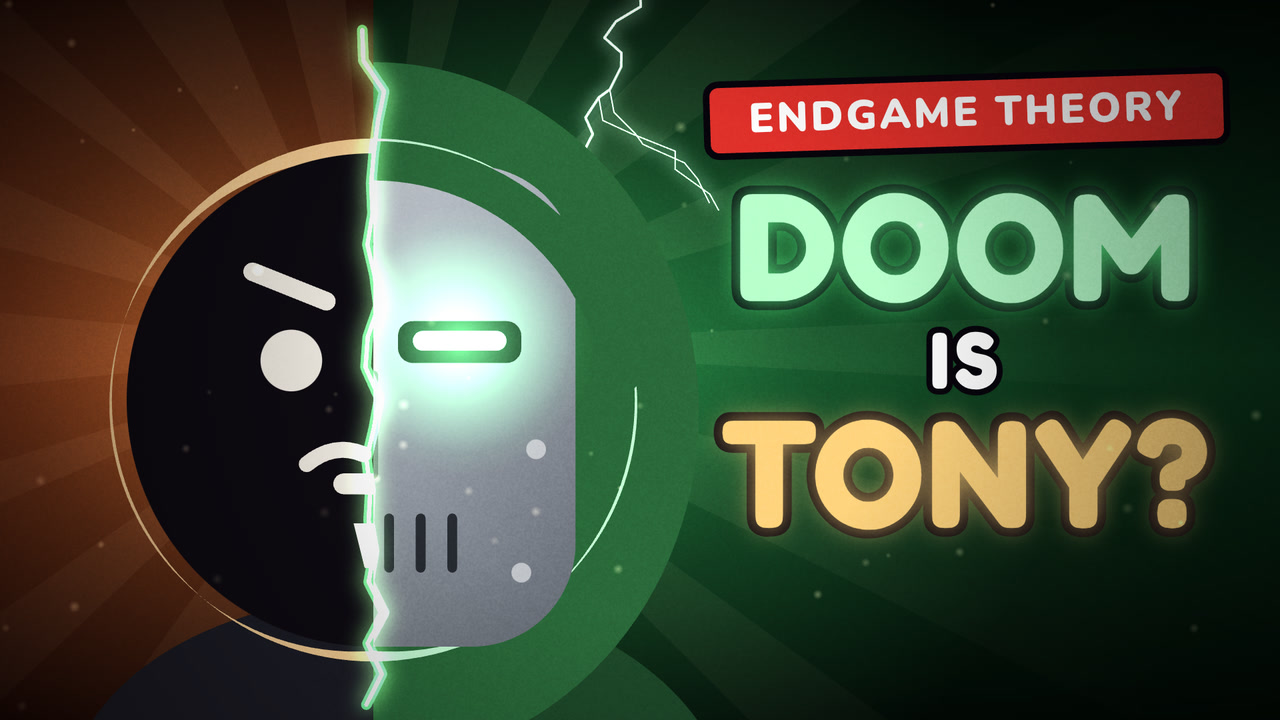
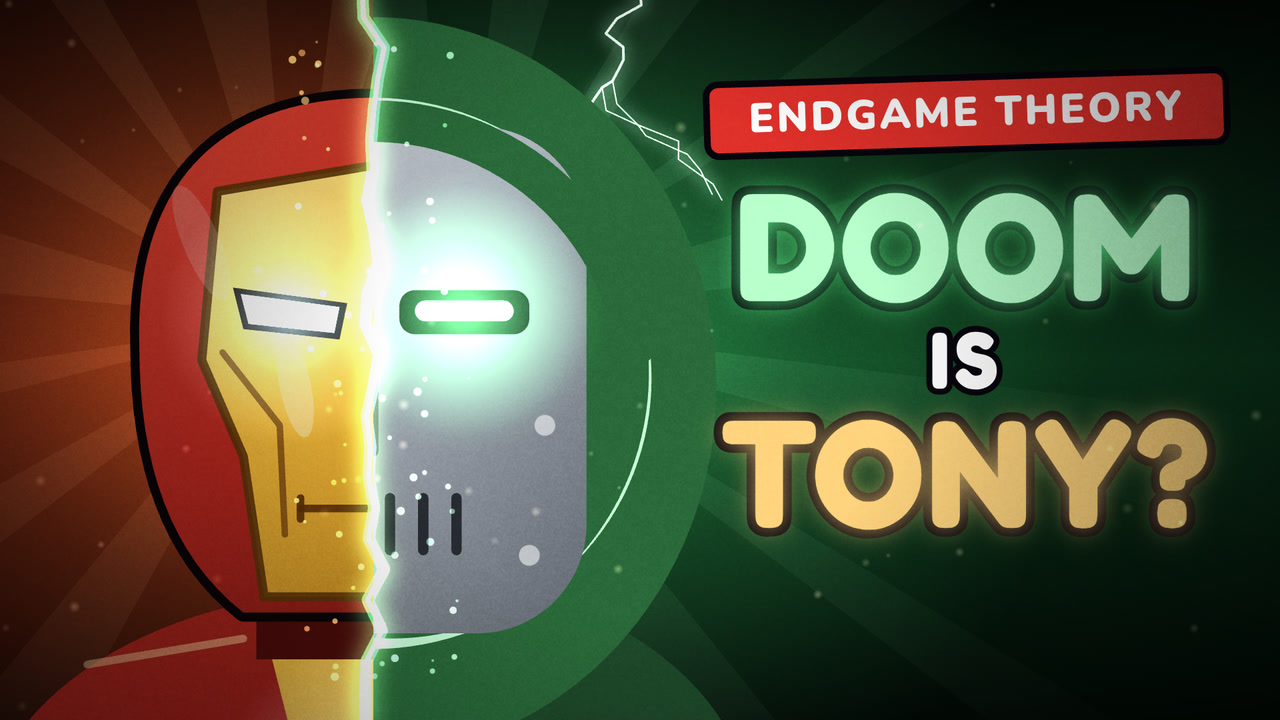
Thumbnail: split Iron Man helmet / Doctor Doom mask
Replaces Tony's face with a detailed Iron Man helmet sized to line up with
Doom's mask, adds sparks along the crack, and updates the AI prompt to match.

Claude-Session: https://claude.ai/code/session_01Lqz46ipsYNizcdPQzsfQbJ

diff --git a/aitrends-2d-studio/projects/thumbnail-doom-tony/scenes/thumb.js b/aitrends-2d-studio/projects/thumbnail-doom-tony/scenes/thumb.js
@@ -1,33 +1,69 @@
 // thumb.js — YouTube thumbnail for "Is Doctor Doom Secretly Tony Stark?".
-// Reuses the video's own faces so the thumbnail matches the video exactly.
-// Layout: one face split down the middle (Tony on the left, Doom's mask on the right) joined by a glowing crack,
-// "DOOM / IS / TONY?" on the right; the bottom-right corner stays clear for YouTube's duration badge.
-import { E, S, registerShot, alpha, glow, seg, text, rr, linGrad, backdrop, rng, FONTS } from '/engine/core.js';
+// Layout: one head split down the middle (Iron Man's helmet on the left, Doom's mask and hood on the right)
+// joined by a glowing crack, "DOOM / IS / TONY?" on the right; the bottom-right corner stays clear for
+// YouTube's duration badge. Doom is the video's own bigDoom; the helmet is drawn here to match its size.
+import { E, S, registerShot, alpha, glow, seg, circle, ring, text, rr, poly, linGrad, radGrad, backdrop, rng, FONTS } from '/engine/core.js';
 import * as FX from '/engine/fx2d.js';
 import { bigDoom } from '/projects/avengers-doomsday-watchlist/scenes/cast.js';
-import { bigMan, GREEN } from '/projects/doom-tony-theory/scenes/kit70.js';
+import { GREEN } from '/projects/doom-tony-theory/scenes/kit70.js';
+
+// front-view Iron Man helmet + shoulders, centred on (cx, cy), roughly the size of bigDoom's mask at the same r
+function ironHelmet(g, cx, cy, r) {
+  const ink = '#0a0406';
+  g.save(); g.translate(cx, cy);
+  // armour shoulders and a half-glowing arc reactor at the seam
+  g.fillStyle = linGrad(g, -r * 1.4, r * 1.2, r * 0.2, r * 2.4, ['#b8281f', '#6a120e']); g.beginPath(); g.ellipse(0, r * 1.78, r * 1.5, r * 0.95, 0, Math.PI, Math.PI * 2); g.fill();
+  g.fillStyle = linGrad(g, 0, r * 1.0, 0, r * 1.6, ['#f2c24a', '#a8741a']); g.beginPath(); g.moveTo(-r * 0.42, r * 0.98); g.lineTo(r * 0.42, r * 0.98); g.lineTo(r * 0.3, r * 1.45); g.lineTo(-r * 0.3, r * 1.45); g.closePath(); g.fill();
+  seg(g, [[-r * 1.1, r * 1.12], [-r * 0.5, r * 1.02]], r * 0.03, 'rgba(255,220,160,.5)');
+  glow(g, 0, r * 1.62, r * 0.6, '#9fe6ff', 0.6); circle(g, 0, r * 1.62, r * 0.17, '#e8faff'); ring(g, 0, r * 1.62, r * 0.17, r * 0.035, '#7a8a96');
+  // neck
+  g.fillStyle = '#4a0c0a'; g.fillRect(-r * 0.45, r * 0.8, r * 0.9, r * 0.3);
+  // red shell
+  const shell = () => { g.beginPath(); g.moveTo(0, -r * 1.06); g.bezierCurveTo(r * 0.62, -r * 1.06, r * 0.92, -r * 0.7, r * 0.9, -r * 0.1); g.bezierCurveTo(r * 0.9, r * 0.35, r * 0.78, r * 0.7, r * 0.5, r * 0.92); g.lineTo(-r * 0.5, r * 0.92); g.bezierCurveTo(-r * 0.78, r * 0.7, -r * 0.9, r * 0.35, -r * 0.9, -r * 0.1); g.bezierCurveTo(-r * 0.92, -r * 0.7, -r * 0.62, -r * 1.06, 0, -r * 1.06); g.closePath(); };
+  shell(); g.lineWidth = r * 0.07; g.strokeStyle = ink; g.stroke();
+  shell(); g.fillStyle = linGrad(g, -r, -r, r * 0.6, r, ['#ef4a36', '#b8281f', '#6a120e']); g.fill();
+  // gold faceplate
+  const plate = () => { g.beginPath(); g.moveTo(0, -r * 0.8); g.lineTo(r * 0.6, -r * 0.7); g.lineTo(r * 0.66, -r * 0.05); g.lineTo(r * 0.5, r * 0.32); g.lineTo(r * 0.42, r * 0.86); g.lineTo(-r * 0.42, r * 0.86); g.lineTo(-r * 0.5, r * 0.32); g.lineTo(-r * 0.66, -r * 0.05); g.lineTo(-r * 0.6, -r * 0.7); g.closePath(); };
+  plate(); g.fillStyle = linGrad(g, -r * 0.6, -r * 0.8, r * 0.3, r * 0.9, ['#ffe58a', '#f2b93a', '#b8801c']); g.fill(); g.lineWidth = r * 0.035; g.strokeStyle = 'rgba(90,50,8,.9)'; g.stroke();
+  // panel lines: forehead peak, cheeks, mouth
+  g.strokeStyle = 'rgba(110,60,10,.75)'; g.lineWidth = r * 0.025; g.lineCap = 'round';
+  for (const s of [-1, 1]) { g.beginPath(); g.moveTo(s * r * 0.58, -r * 0.08); g.lineTo(s * r * 0.36, r * 0.2); g.lineTo(s * r * 0.34, r * 0.62); g.stroke(); }
+  seg(g, [[-r * 0.28, r * 0.52], [r * 0.28, r * 0.52]], r * 0.03, 'rgba(90,45,6,.9)');
+  for (const s of [-1, 1]) seg(g, [[s * r * 0.28, r * 0.48], [s * r * 0.28, r * 0.56]], r * 0.03, 'rgba(90,45,6,.9)');
+  // glowing eyes
+  for (const s of [-1, 1]) {
+    poly(g, [[s * r * 0.1, -r * 0.27], [s * r * 0.54, -r * 0.33], [s * r * 0.5, -r * 0.17], [s * r * 0.13, -r * 0.13]], '#1a0a04');
+    poly(g, [[s * r * 0.13, -r * 0.255], [s * r * 0.51, -r * 0.305], [s * r * 0.48, -r * 0.19], [s * r * 0.15, -r * 0.155]], '#f4feff');
+    glow(g, s * r * 0.32, -r * 0.22, r * 0.5, '#9fe6ff', 0.55); g.save(); g.globalCompositeOperation = 'lighter'; glow(g, s * r * 0.32, -r * 0.22, r * 0.22, '#dff8ff', 0.35); g.restore();
+  }
+  // specular highlights
+  g.fillStyle = 'rgba(255,255,255,.18)'; g.beginPath(); g.ellipse(-r * 0.66, -r * 0.5, r * 0.07, r * 0.24, -0.4, 0, 7); g.fill();
+  g.fillStyle = 'rgba(255,250,220,.4)'; g.beginPath(); g.ellipse(-r * 0.3, r * 0.05, r * 0.06, r * 0.2, -0.2, 0, 7); g.fill();
+  g.restore();
+}
 
 registerShot('thumb', { draw(g, _t, info) {
-  const t = 0.4, ui = S().ui, ink = '#07040c', cx = 560, cy = 600, r = 370;
+  const t = 0.4, ui = S().ui, ink = '#07040c', cx = 560, cy = 560, r = 390;
 
-  // two worlds: Stark warm on the left, Latveria green on the right, split at the face
-  g.save(); g.beginPath(); g.rect(0, 0, cx, E.H); g.clip(); backdrop(g, ['#1a0604', '#6a2410', '#1a0604']); glow(g, cx - 200, cy - 80, 700, '#ffb050', 0.45); g.restore();
-  g.save(); g.beginPath(); g.rect(cx, 0, E.W - cx, E.H); g.clip(); backdrop(g, ['#020a05', '#0c3a1c', '#020a05']); glow(g, cx + 260, cy - 80, 800, GREEN, 0.35);
-  FX.lightning(g, { x1: 960, y1: -20, x2: 820, y2: 330, seed: 5, a: 0.8, color: '#d8ffe4', w: 4 }); g.restore();
-  FX.godRays(g, cx, cy - 80, { count: 18, angle: -Math.PI / 2, spread: Math.PI * 2, len: 1300, a: 0.08, color: '#ffe2b0' });
+  // two worlds: Stark red-gold on the left, Latveria green on the right, split at the face
+  g.save(); g.beginPath(); g.rect(0, 0, cx, E.H); g.clip(); backdrop(g, ['#1a0402', '#6a1a0c', '#1a0402']); glow(g, cx - 220, cy - 60, 760, '#ff8a3a', 0.5);
+  FX.godRays(g, cx - 120, cy - 80, { count: 16, angle: -Math.PI / 2, spread: Math.PI * 2, len: 1300, a: 0.1, color: '#ffd59a' }); g.restore();
+  g.save(); g.beginPath(); g.rect(cx, 0, E.W - cx, E.H); g.clip(); backdrop(g, ['#020a05', '#0c3a1c', '#020a05']); glow(g, cx + 260, cy - 80, 820, GREEN, 0.35);
+  FX.godRays(g, cx + 120, cy - 80, { count: 16, angle: -Math.PI / 2, spread: Math.PI * 2, len: 1300, a: 0.08, color: '#b8ffcc' });
+  FX.lightning(g, { x1: 960, y1: -20, x2: 830, y2: 300, seed: 5, a: 0.8, color: '#d8ffe4', w: 4 }); g.restore();
 
-  // the face: Tony's half and Doom's half
-  g.save(); g.beginPath(); g.rect(0, 0, cx, E.H); g.clip();
-  bigMan(g, cx, cy, r, { outfit: { top: 'suit', color: '#1d1d26' }, expr: 'determined', rimColor: '#ffd59a', rimSide: -1, look: [0.15, 0] });
-  g.restore();
+  // the head: Iron Man's half and Doom's half
+  g.save(); g.beginPath(); g.rect(0, 0, cx, E.H); g.clip(); ironHelmet(g, cx, cy, r); g.restore();
   g.save(); g.beginPath(); g.rect(cx, 0, E.W - cx, E.H); g.clip();
   bigDoom(g, cx, cy, r, { eyes: 1, t, rimColor: '#c8ffd8', rimSide: 1 });
-  glow(g, cx + r * 0.35, cy - r * 0.24, 170, '#9dffb6', 0.6);
+  g.save(); g.globalCompositeOperation = 'lighter'; glow(g, cx + r * 0.35, cy - r * 0.24, 190, '#9dffb6', 0.7); g.restore();
   g.restore();
 
-  // the crack where the two halves meet
-  const R = rng(7), pts = []; for (let y = cy - r * 1.5; y <= E.H + 20; y += 46) pts.push([cx + (R() - 0.5) * 34, y]);
-  g.save(); g.globalCompositeOperation = 'lighter'; g.shadowColor = GREEN; g.shadowBlur = 30; seg(g, pts, 16, alpha(GREEN, 0.7)); g.shadowColor = '#ffcf8a'; seg(g, pts, 6, '#fff6e0'); g.restore();
+  // the crack where the two halves meet, with sparks
+  const R = rng(7), pts = []; for (let y = -20; y <= E.H + 20; y += 46) pts.push([cx + (R() - 0.5) * 34, y]);
+  g.save(); g.globalCompositeOperation = 'lighter'; g.shadowColor = GREEN; g.shadowBlur = 34; seg(g, pts, 18, alpha(GREEN, 0.7)); g.shadowColor = '#ffcf8a'; seg(g, pts, 7, '#fff6e0'); g.shadowBlur = 0;
+  for (let i = 0; i < 70; i++) { const y = 60 + R() * (E.H - 120), d = (R() - 0.5) * 260, x = cx + d, s = 2 + R() * 4; circle(g, x, y, s, alpha(d < 0 ? '#ffd27a' : '#b8ffcc', 0.4 + R() * 0.5)); }
+  g.restore();
 
   if (!info.notext) {
     const stroke = { stroke: 26, strokeColor: ink };

diff --git a/channel/video2_doom_tony_youtube.md b/channel/video2_doom_tony_youtube.md
@@ -42,7 +42,7 @@ Disclaimer: This is an original fan-made animation and a speculative theory. It 
 - Clean art reference (no text) for an AI generator: `channel/thumbnail2_doom_tony_reference_notext.png`
 
 AI prompt (use the reference image for composition):
-> YouTube thumbnail, 16:9, bold flat 2D animation style with thick clean shapes and strong rim light. One giant face filling the left half of the frame, split perfectly down the middle by a glowing jagged crack of green and white light. Left half: a determined man with a dark goatee and moustache, warm orange and gold rim light, fiery orange sunburst background. Right half: Doctor Doom's polished silver metal mask with one glowing green eye slit, inside a dark green hood, emerald green background with a lightning bolt. Right third left empty for big text. High contrast, saturated, cinematic, dramatic, readable at small size, no text.
+> YouTube thumbnail, 16:9, bold flat 2D animation style with thick clean shapes and strong rim light. One giant armoured head filling the left half of the frame, split perfectly down the middle by a glowing jagged crack of green and white light. Left half: Iron Man's red and gold helmet with a glowing white-blue eye slit, red armour shoulder below, fiery orange sunburst background. Right half: Doctor Doom's polished silver metal mask with one glowing green eye slit, inside a dark green hood, emerald green background with a lightning bolt. Right third left empty for big text. High contrast, saturated, cinematic, dramatic, readable at small size, no text.
 
 Text to add on the right: a red badge "ENDGAME THEORY", then "DOOM" (glowing mint green), "IS" (white), "TONY?" (gold), all with thick dark outlines. Keep the bottom-right corner clear for YouTube's timestamp.
 
